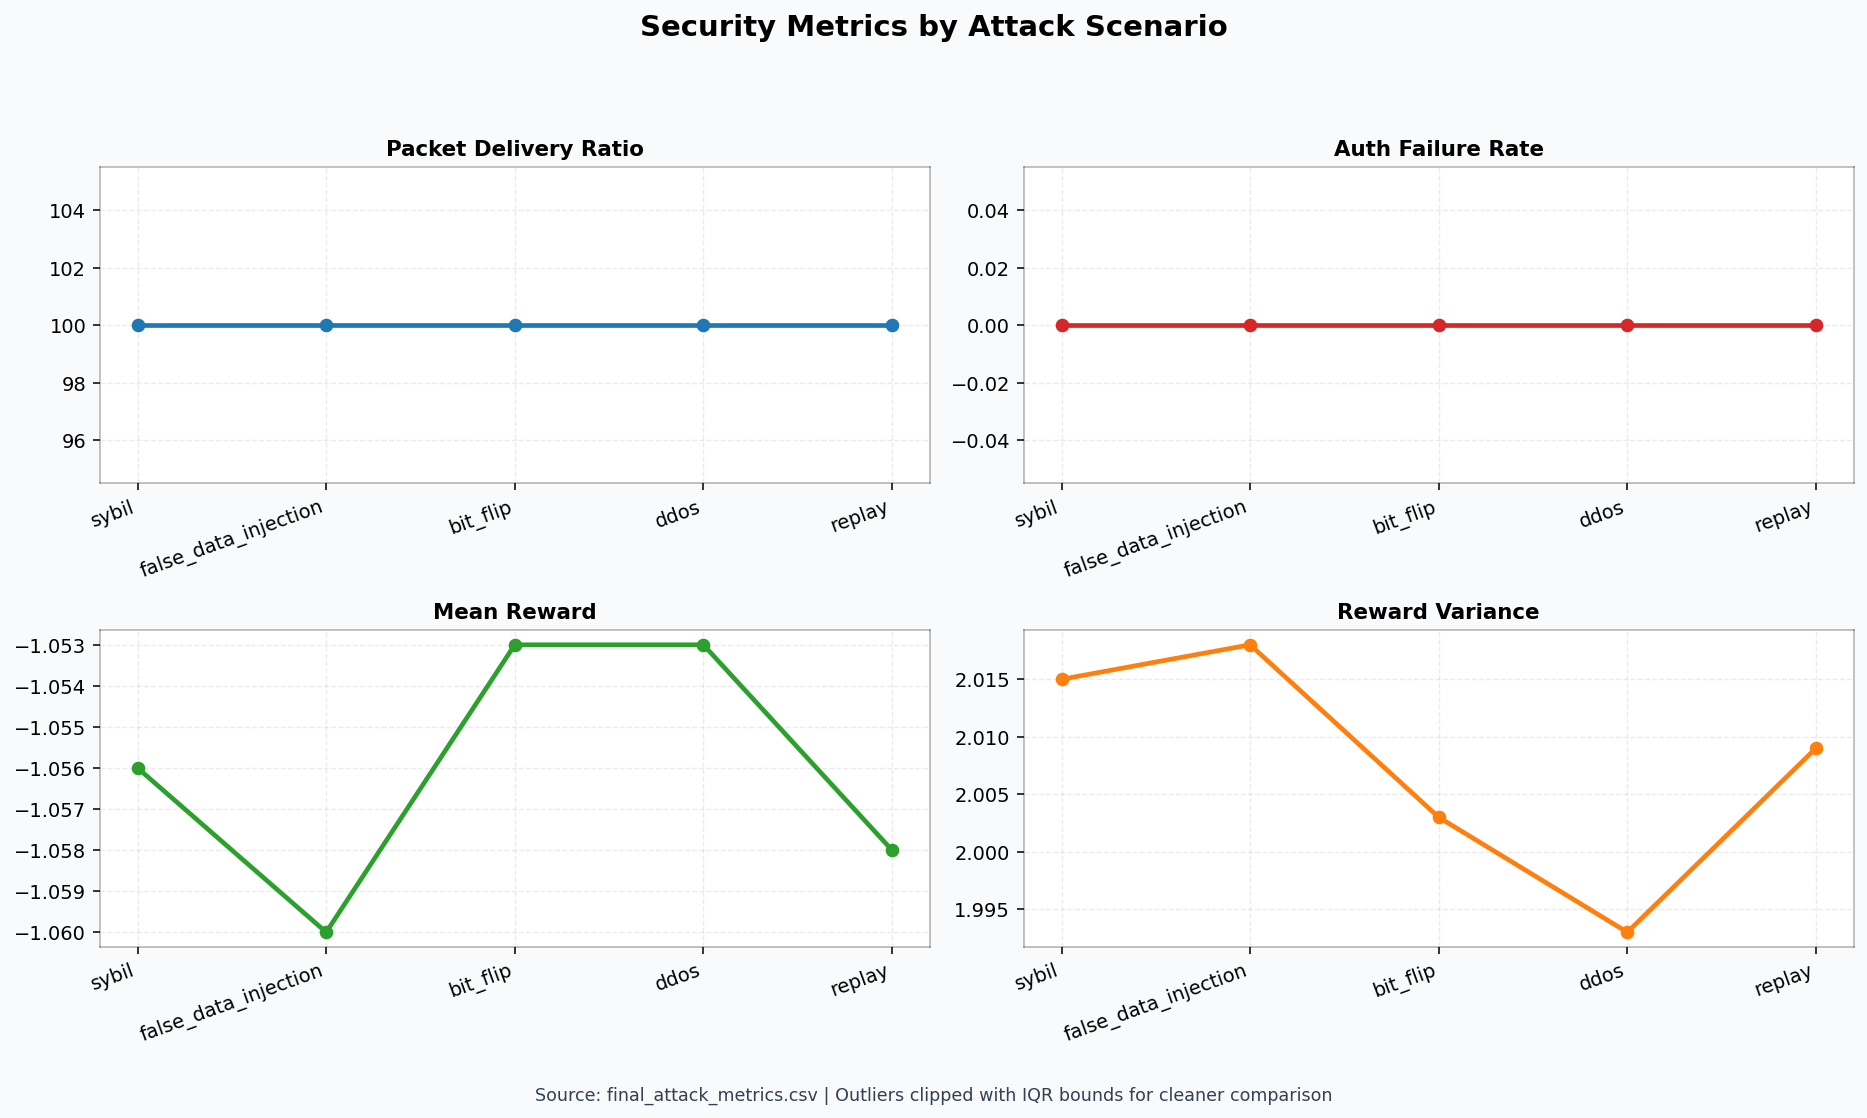
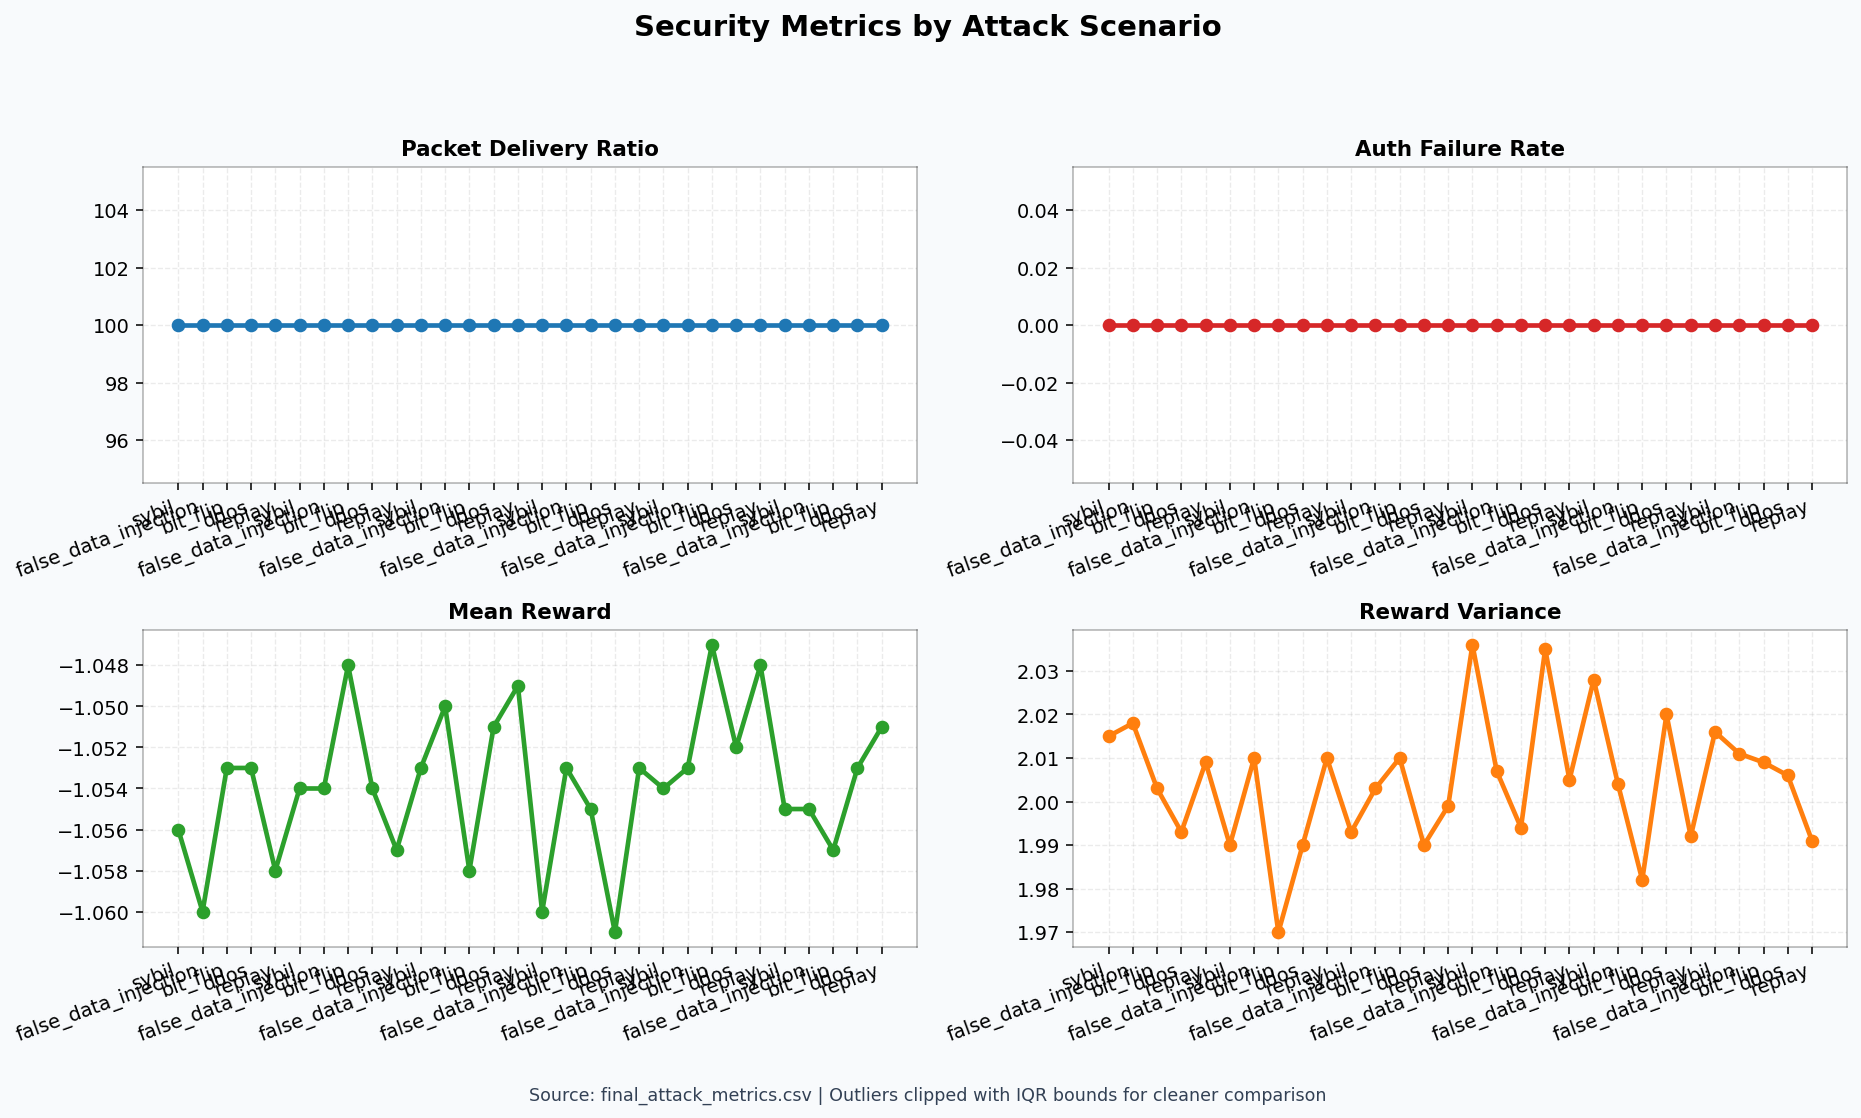
final

diff --git a/main.py b/main.py
@@ -44,13 +44,16 @@ from security.attacks import AttackSimulator
 # ==========================================================
 #                     ATTACK SCHEDULE
 # ==========================================================
-ATTACK_SCHEDULE = [
+BASE_ATTACK_SCHEDULE = [
     "sybil",
     "false_data_injection",
     "bit_flip",
     "ddos",
     "replay",
 ]
+
+NUM_EPISODES = 30
+ATTACK_SCHEDULE = [BASE_ATTACK_SCHEDULE[i % len(BASE_ATTACK_SCHEDULE)] for i in range(NUM_EPISODES)]
 
 
 def save_final_security_plot(df: pd.DataFrame, output_path: str = "results/final_security_metrics.png"):
@@ -363,3 +366,4 @@ if __name__ == "__main__":
     torch.manual_seed(0)
 
     run_training_and_simulation()
+
